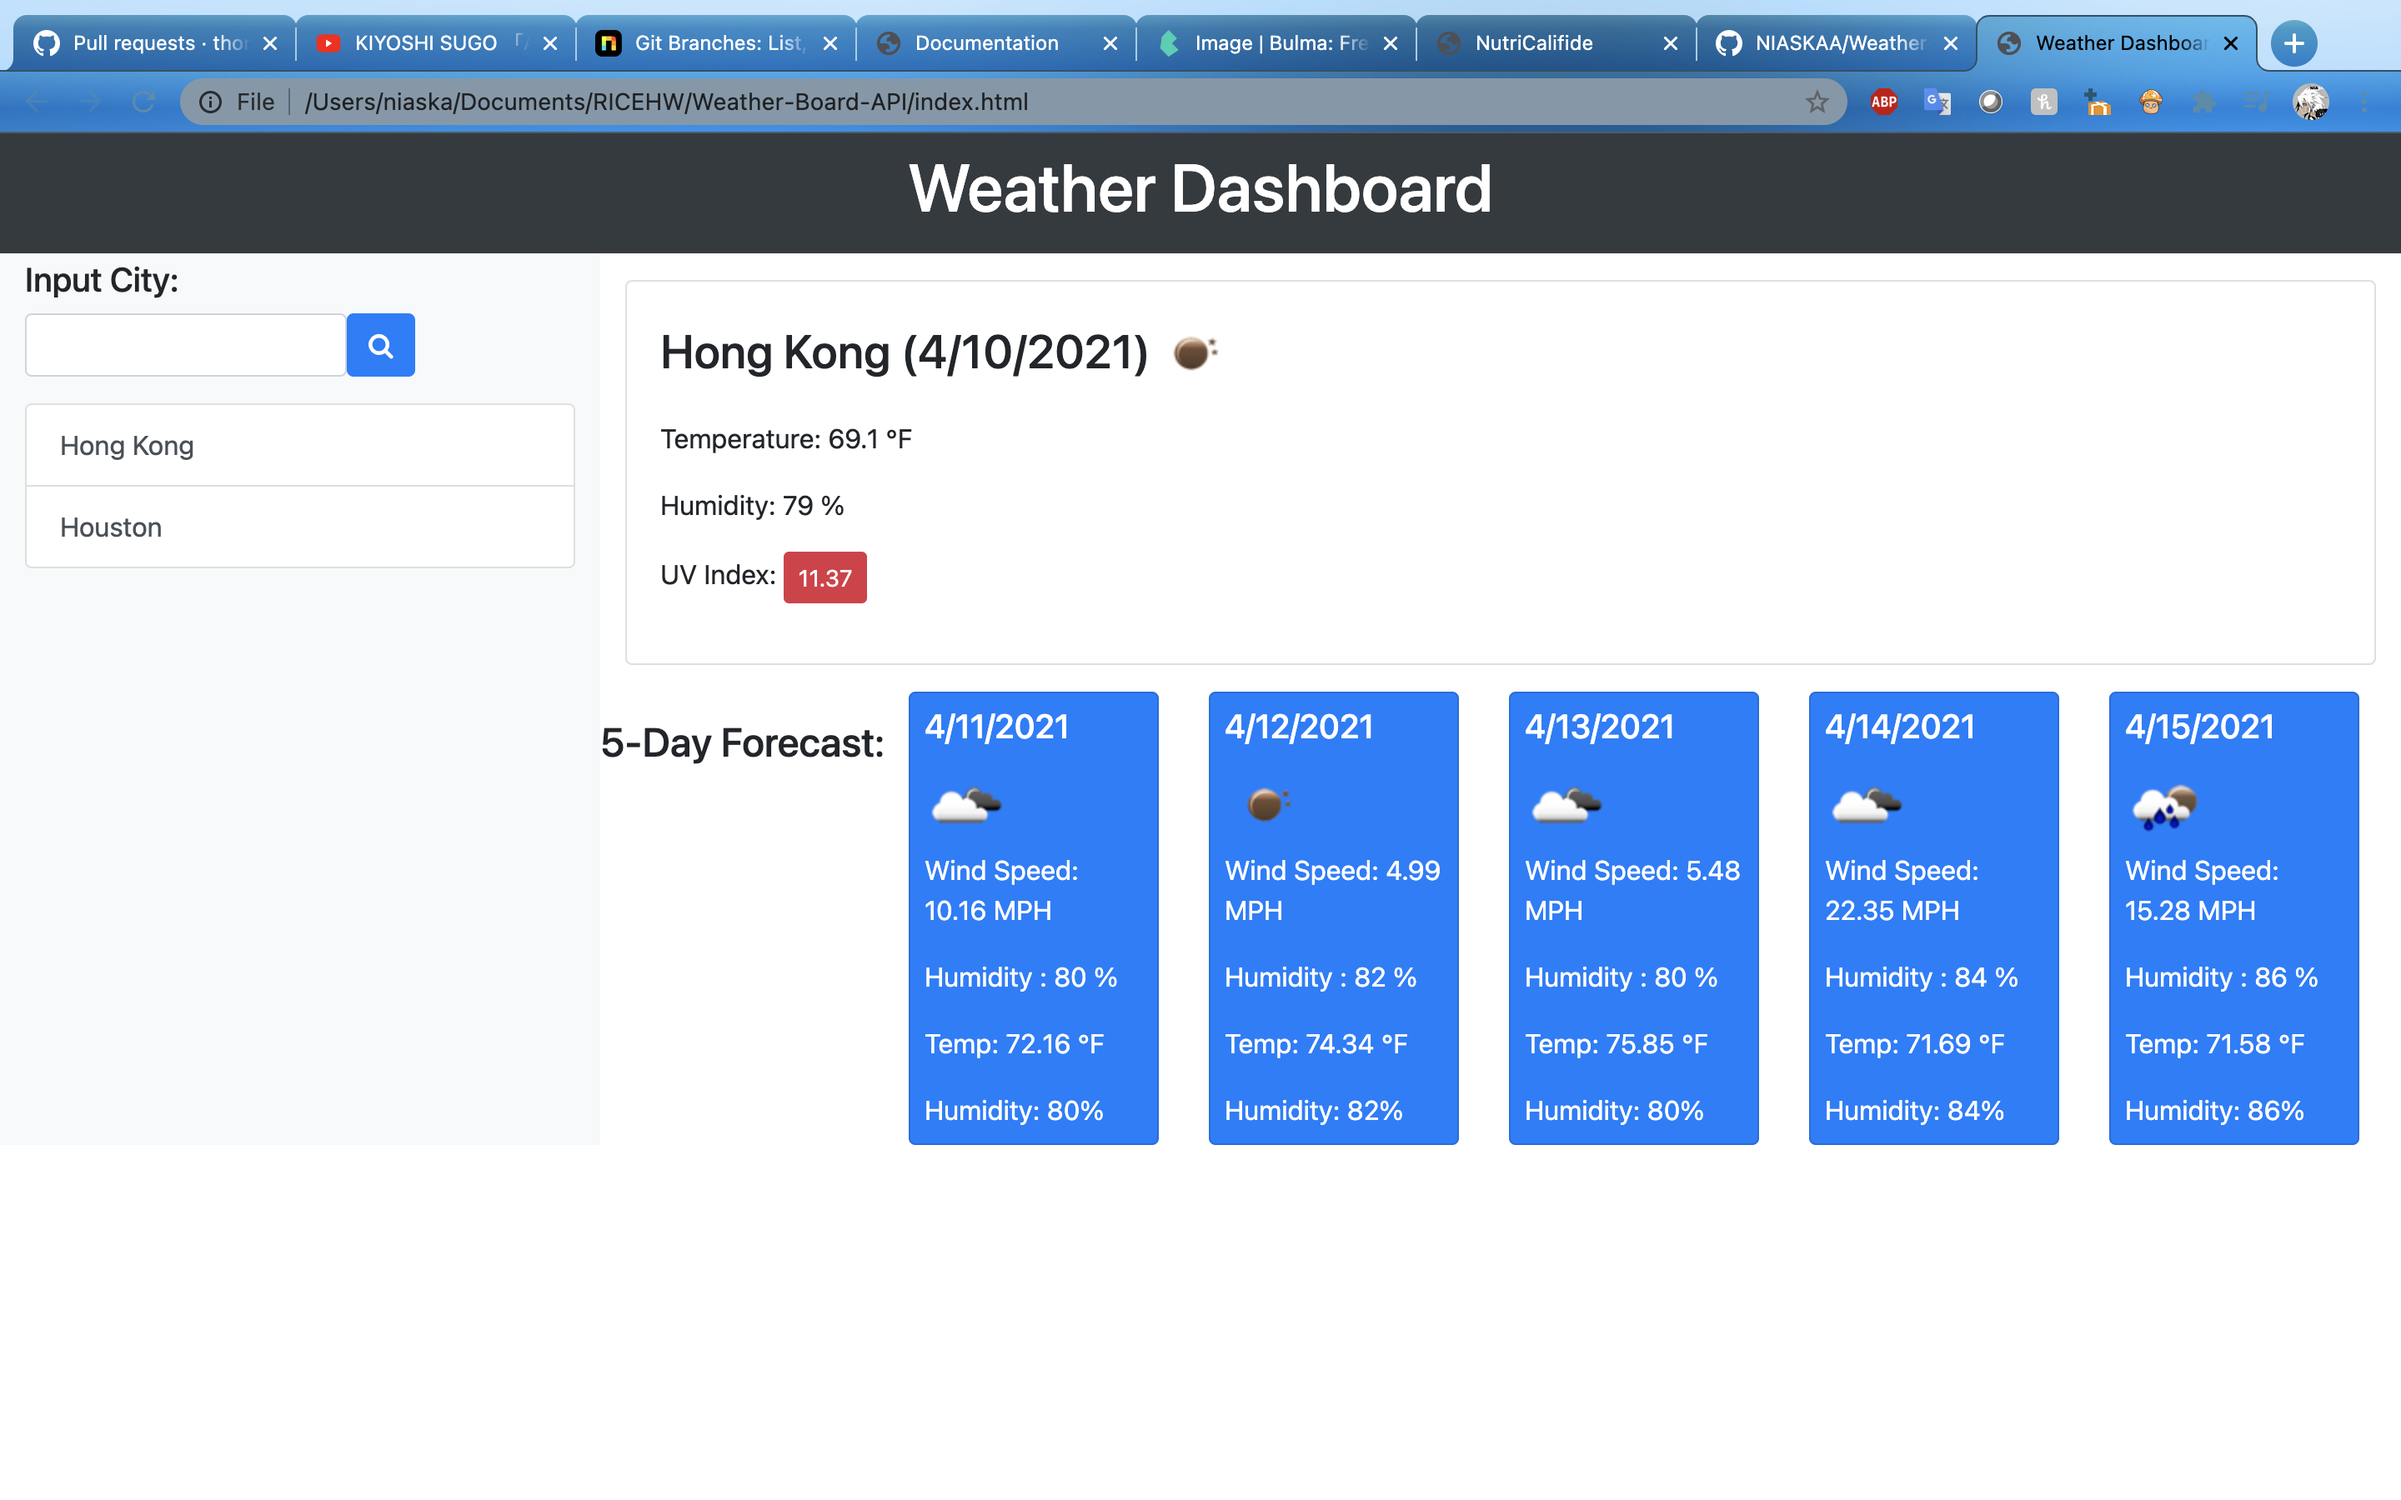
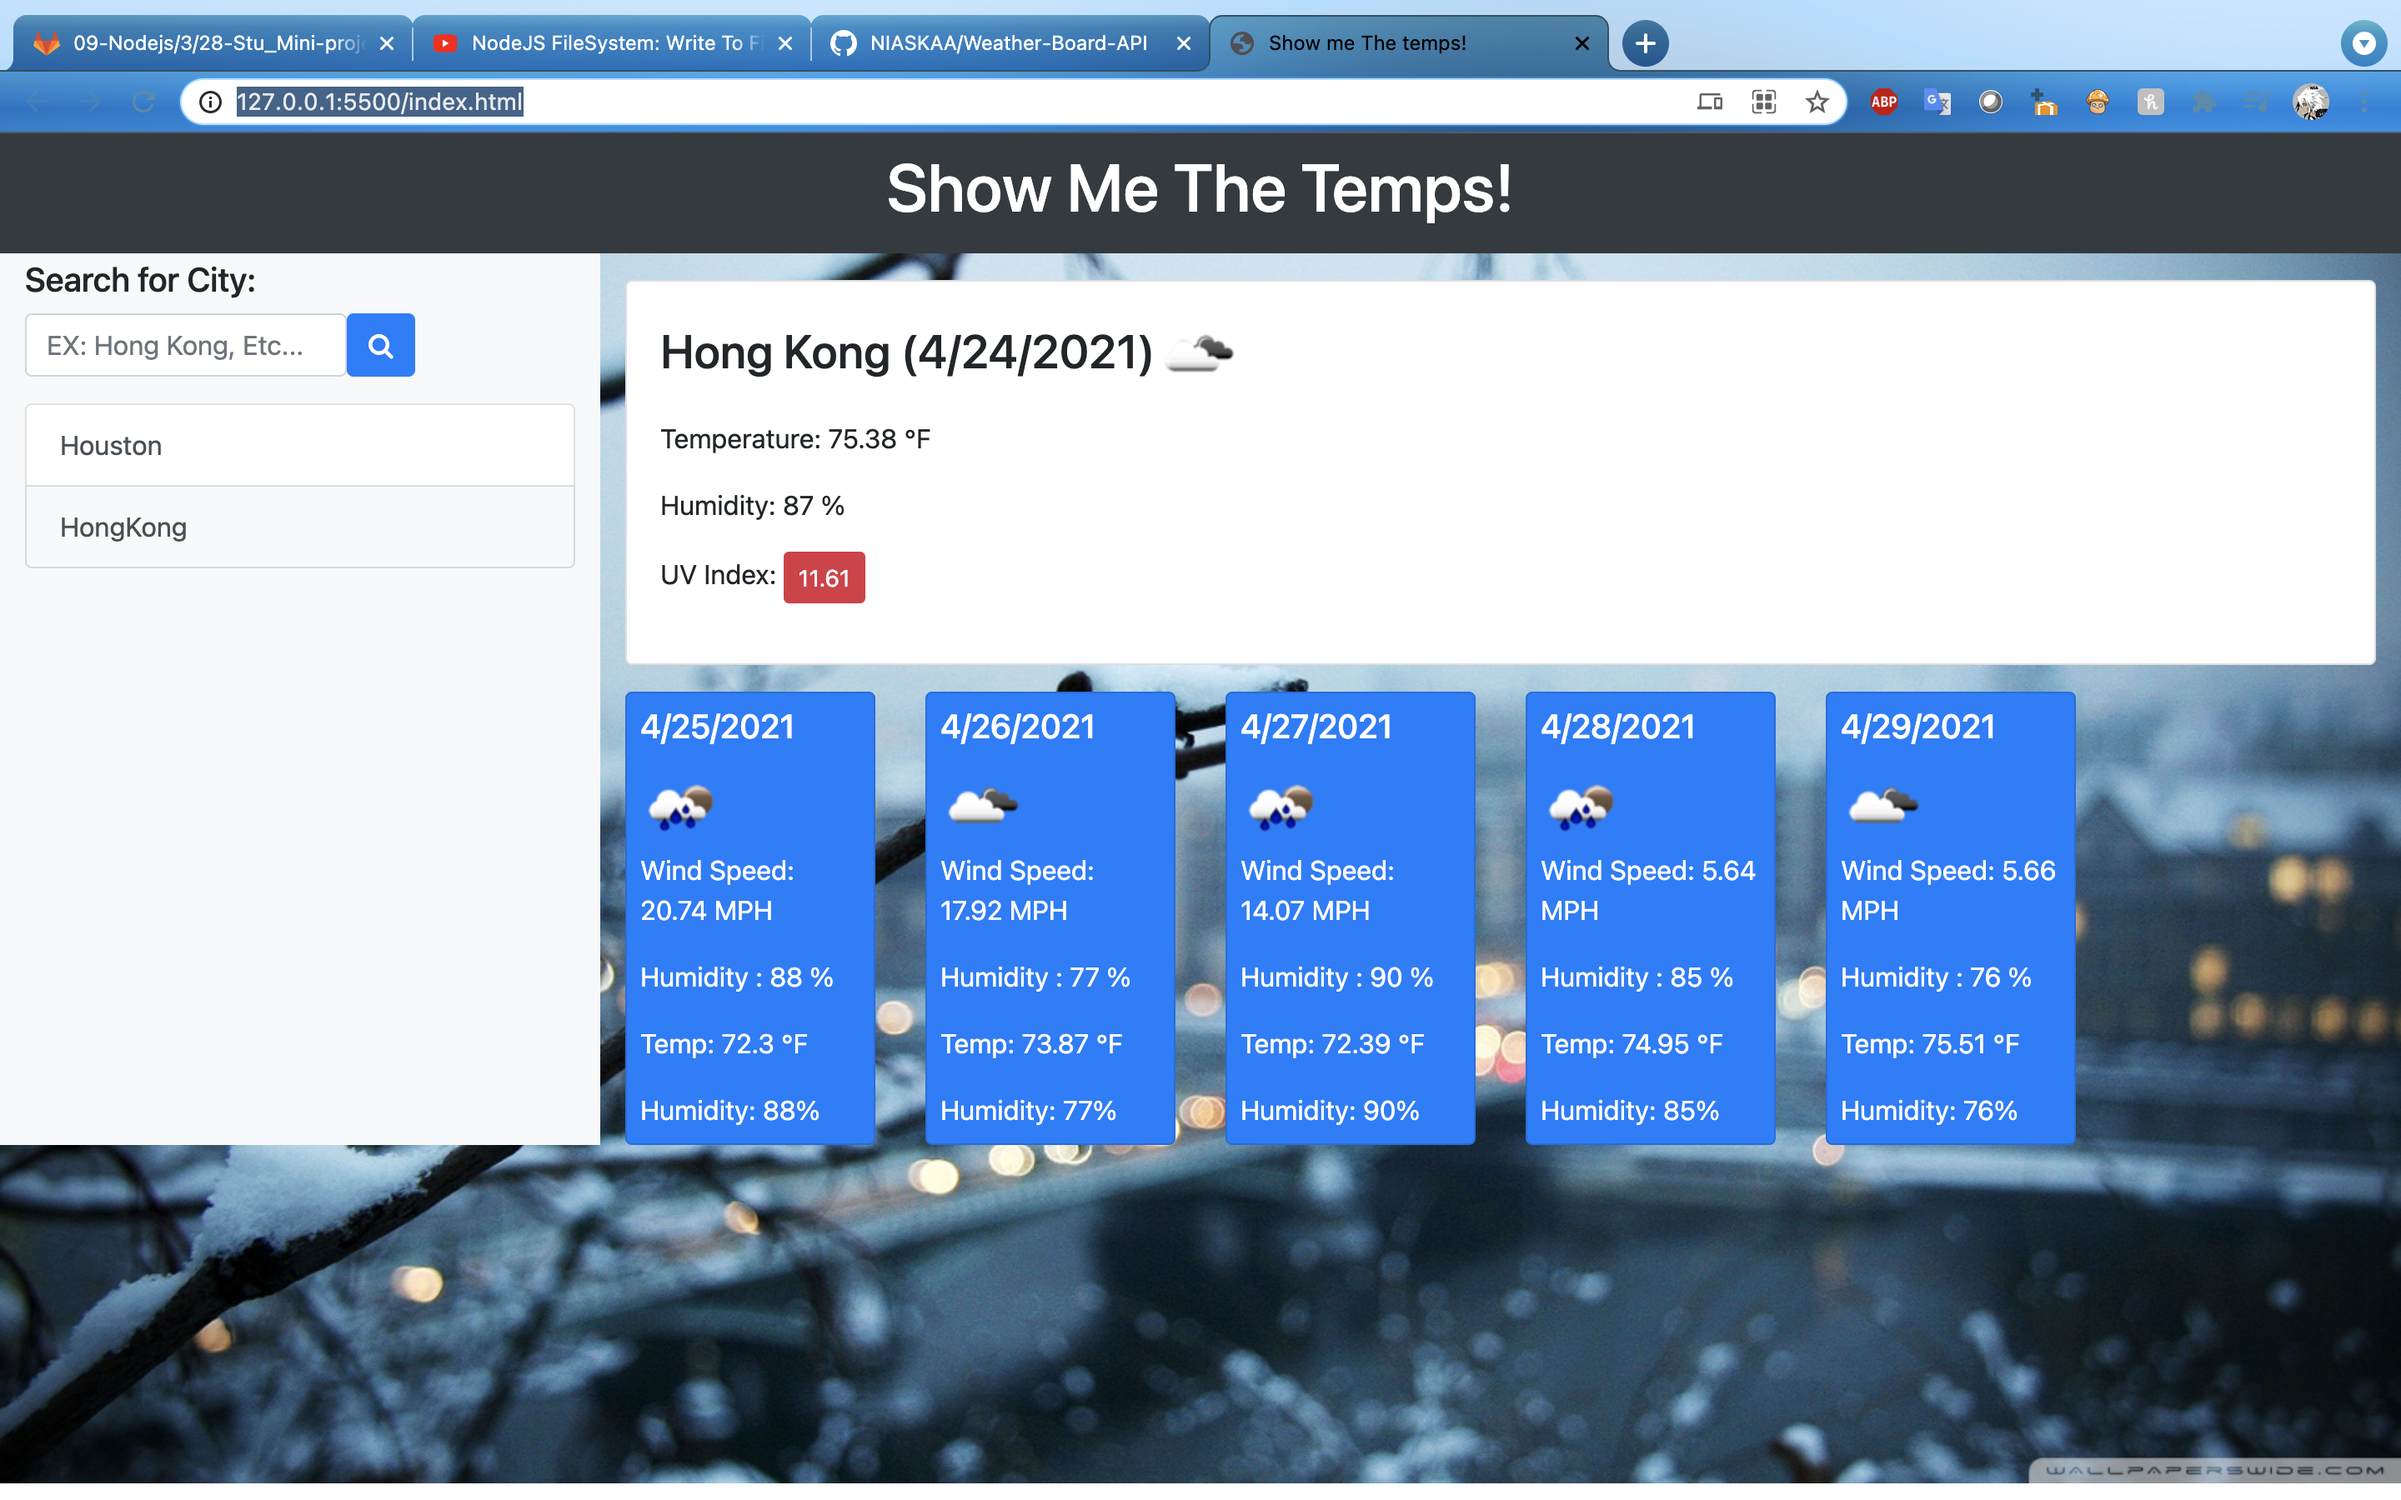
new changes

diff --git a/assets/js/script.js b/assets/js/script.js
@@ -1,36 +1,41 @@
+document.body.style.backgroundImage = "url('./images/background1.jpeg')";
+document.body.style.backgroundRepeat = "no-repeat";
+document.body.style.backgroundSize = "cover";
+
 window.addEventListener('load', function () {
   // Grab the existing history from local storage IF it exists
-  var existingHistory;
+  let existingHistory;
   if (!JSON.parse(localStorage.getItem('history'))) {
     existingHistory = [];
   } else {
     existingHistory = JSON.parse(localStorage.getItem('history'));
   }
 
-  var historyItems = [];
+  let historyItems = [];
 
   // Function to get the forecast, loop through only the days of the week and render data to the page
-  function getForecast(searchValue) {
+  getForecast = (searchValue) => {
     if (!searchValue) {
       return;
     }
-    var endpoint = `http://api.openweathermap.org/data/2.5/forecast?q=${searchValue}&appid=d91f911bcf2c0f925fb6535547a5ddc9&units=imperial`;
-    fetch(endpoint)
+
+    let apiKey = `http://api.openweathermap.org/data/2.5/forecast?q=${searchValue}&appid=875237a179f3849c7b98272538507d81&units=imperial`;
+    fetch(apiKey)
       .then((res) => res.json())
       .then((data) => {
         // Select our forecast element and add a header to it
-        var forecastEl = document.querySelector('#forecast');
-        forecastEl.innerHTML = '<h4 class="mt-3">5-Day Forecast:</h4>';
+        let forecastEl = document.querySelector('#forecast');
+        forecastEl.innerHTML = '<h4 class="mt-3"></h4>';
 
         // Create a div and give it a class of row
         forecastRowEl = document.createElement('div');
         forecastRowEl.className = '"row"';
 
-        // Loop over all forecasts (by 3-hour increments)
+        // Loop for 5 times to make the display 5 cards
         for (var i = 0; i < data.list.length; i++) {
           // Only look at forecasts around 3:00pm
           if (data.list[i].dt_txt.indexOf('15:00:00') !== -1) {
-            // Create HTML elements for a bootstrap card
+            // Make cards to display info
             var colEl = document.createElement('div');
             colEl.classList.add('col-md-2');
             var cardEl = document.createElement('div');
@@ -78,7 +83,7 @@ window.addEventListener('load', function () {
   // Helper function to fetch and display the UV index
   function getUVIndex(lat, lon) {
     fetch(
-      `http://api.openweathermap.org/data/2.5/uvi?appid=d91f911bcf2c0f925fb6535547a5ddc9&lat=${lat}&lon=${lon}`
+      `http://api.openweathermap.org/data/2.5/uvi?appid=875237a179f3849c7b98272538507d81&lat=${lat}&lon=${lon}`
     )
       .then((res) => res.json())
       .then((data) => {
@@ -120,8 +125,8 @@ window.addEventListener('load', function () {
 
   // Function that preforms the actual API request and creates elements to render to the page
   function searchWeather(searchValue) {
-    var endpoint = `http://api.openweathermap.org/data/2.5/weather?q=${searchValue}&appid=d91f911bcf2c0f925fb6535547a5ddc9&units=imperial`;
-    fetch(endpoint)
+    var apiKey = `http://api.openweathermap.org/data/2.5/weather?q=${searchValue}&appid=875237a179f3849c7b98272538507d81&units=imperial`;
+    fetch(apiKey)
       .then((res) => res.json())
       .then((data) => {
         // Invoke our history method

diff --git a/index.html b/index.html
@@ -13,20 +13,20 @@
       rel="stylesheet"
       href="https://stackpath.bootstrapcdn.com/font-awesome/4.7.0/css/font-awesome.min.css"
     />
-    <title>Weather Dashboard</title>
+    <link rel="stylesheet" href="assets/css/style.css">
+    <title>Show me The temps!</title>
   </head>
 
   <body>
     <header class="container-fluid text-center text-white bg-dark p-2">
-      <h1>Weather Dashboard</h1>
+      <h1>Show Me The Temps!</h1>
     </header>
-
     <div class="container-fluid">
       <div class="row">
         <aside class="col-lg-3 bg-light">
-          <h5 class="mt-1">Input City:</h5>
+          <h5 class="mt-1">Search for City:</h5>
           <div class="form-inline form-group">
-            <input class="form-control" type="text" id="search-value" />
+            <input class="form-control" type="text" id="search-value" placeholder="EX: Hong Kong, Etc..."/>
             <button class="btn btn-primary" id="search-button">
               <i class="fa fa-search"></i>
             </button>
@@ -41,7 +41,7 @@
         </div>
       </div>
     </div>
-
-    <script src="script.js"></script>
+  </div> 
+    <script src="/assets/js/script.js"></script>
   </body>
 </html>
